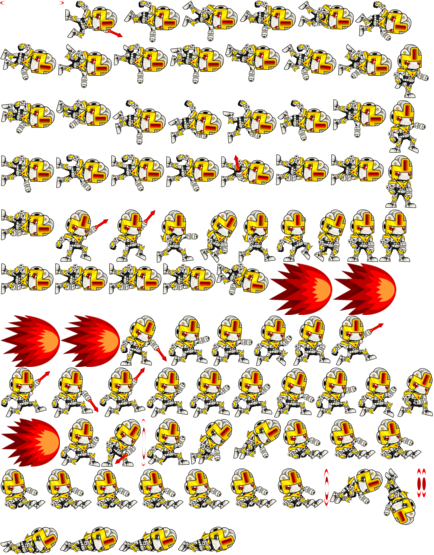
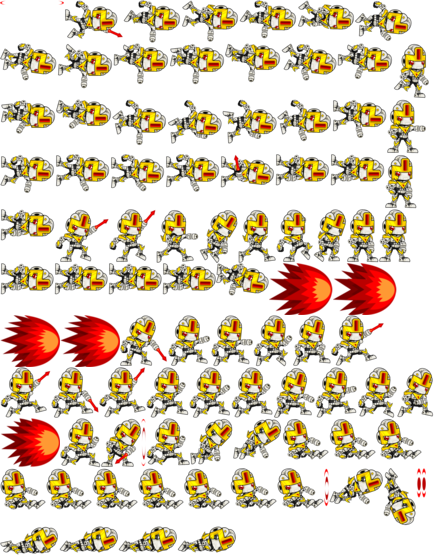
fix: detect failed writes, isolate test caches, read folders in natural order
Failed writes:
- spratpack, spratconvert and spratunpack now check that each file was
  fully written. On failure they report it, remove the partial file
  (regular files only) and exit 1; before, a full disk left truncated
  output and exit code 0.
- run_main() flushes and checks stdout for all five tools.

Test cache isolation:
- Every ctest test gets its own TMPDIR, emptied before each run by the
  reset_test_cache fixture. Cached layouts are keyed by VERSION only, so
  tests could reuse layouts from an earlier build of the same version.

Folder order:
- Folder and archive inputs are sorted by natural file name. Directory
  order is filesystem-specific, so the same folder gave different
  layouts on different machines. Lists keep their own order.
- README examples regenerated with the current build; the pot example
  was 460x894 and is now 512x1024.
- regenerate-readme-assets.sh prefers ./build over leftover root binaries.

Tests: write_failure (skipped without /dev/full), folder_order.
Docs: README, man page (adds --sort stable) and --help describe folder
order; AGENTS.md describes the test cache.
Version: v0.19.3.

diff --git a/src/commands/spratconvert_command.cpp b/src/commands/spratconvert_command.cpp
@@ -35,6 +35,7 @@ namespace fs = std::filesystem;
 #include <system_error>
 #include "core/layout_parser.h"
 #include "core/cli_parse.h"
+#include "core/file_io.h"
 #include "core/i18n.h"
 #include "core/output_pattern.h"
 #include "core/fnv1a.h"
@@ -1711,13 +1712,12 @@ int run_spratconvert(int argc, char** argv) {
             int exit_code = 0;
             for (const auto& fe : result.files) {
                 const fs::path out_path = fs::path(out_dir) / fe.filename;
-                std::ofstream out_file(out_path, std::ios::binary);
-                if (!out_file) {
-                    std::cerr << tr("Failed to open output file: ") << out_path.string() << "\n";
+                std::string write_error;
+                if (!sprat::core::write_file(out_path, fe.content, write_error)) {
+                    std::cerr << tr("Failed to write output file ") << to_quoted(out_path.string())
+                              << ": " << write_error << "\n";
                     exit_code = 1;
-                    continue;
                 }
-                out_file << fe.content;
             }
             return exit_code;
         }
@@ -1732,12 +1732,12 @@ int run_spratconvert(int argc, char** argv) {
             }
             const std::string out_filename = file_stem + result.extension;
             const fs::path out_path = fs::path(out_dir) / out_filename;
-            std::ofstream out_file(out_path, std::ios::binary);
-            if (!out_file) {
-                std::cerr << tr("Failed to open output file: ") << out_path.string() << "\n";
+            std::string write_error;
+            if (!sprat::core::write_file(out_path, result.content, write_error)) {
+                std::cerr << tr("Failed to write output file ") << to_quoted(out_path.string())
+                          << ": " << write_error << "\n";
                 return 1;
             }
-            out_file << result.content;
             return 0;
         }
 

diff --git a/src/commands/spratunpack_command.cpp b/src/commands/spratunpack_command.cpp
@@ -24,6 +24,7 @@ namespace fs = std::filesystem;
 #include <thread>
 #include <iterator>
 #include "core/cli_parse.h"
+#include "core/file_io.h"
 #include "core/layout_parser.h"
 
 #ifdef _WIN32
@@ -841,11 +842,7 @@ private:
         std::cout << tr("Unpacking ") << frames_.size() << tr(" frames to ") << to_quoted(config_.output_dir.string()) << tr("...\n");
 
         return encode_and_write([&](const SpriteFrame& frame, const std::vector<unsigned char>& png) {
-            if (!save_png(frame, png)) {
-                std::cerr << tr("Error: Failed to save sprite ") << to_quoted(frame.name) << "\n";
-                return false;
-            }
-            return true;
+            return save_png(frame, png);  // reports its own error
         });
     }
 
@@ -981,9 +978,14 @@ private:
             return false;
         }
 
-        std::ofstream out(output_path, std::ios::binary);
-        out.write(reinterpret_cast<const char*>(png.data()), static_cast<std::streamsize>(png.size()));
-        return static_cast<bool>(out);
+        std::string write_error;
+        if (!sprat::core::write_file(output_path,
+                std::string_view(reinterpret_cast<const char*>(png.data()), png.size()), write_error)) {
+            std::cerr << tr("Error: Failed to write ") << to_quoted(output_path.string())
+                      << ": " << write_error << "\n";
+            return false;
+        }
+        return true;
     }
 };
 

diff --git a/src/core/file_io.h b/src/core/file_io.h
@@ -1,0 +1,35 @@
+#pragma once
+
+#include <filesystem>
+#include <fstream>
+#include <string>
+#include <string_view>
+#include <system_error>
+
+#include "core/i18n.h"
+
+namespace sprat::core {
+
+// Writes data to path, replacing the file. Fails (setting error) if the file can't be opened
+// or the data doesn't fully reach it, e.g. on a full disk; the partial file is then removed
+// (if it is a regular file) so no truncated atlas or metadata file is left behind.
+inline bool write_file(const std::filesystem::path& path, std::string_view data, std::string& error) {
+    std::ofstream out(path, std::ios::binary | std::ios::trunc);
+    if (!out) {
+        error = tr("cannot open file for writing");
+        return false;
+    }
+    out.write(data.data(), static_cast<std::streamsize>(data.size()));
+    out.close();  // flushes; a failed flush sets failbit
+    if (!out) {
+        error = tr("write failed (disk full or I/O error)");
+        std::error_code ec;
+        if (std::filesystem::is_regular_file(path, ec)) {  // never a device such as /dev/full
+            std::filesystem::remove(path, ec);
+        }
+        return false;
+    }
+    return true;
+}
+
+} // namespace sprat::core

diff --git a/src/commands/spratpack_command.cpp b/src/commands/spratpack_command.cpp
@@ -41,6 +41,7 @@
 #include <archive_entry.h>
 #include "core/layout_parser.h"
 #include "core/checked_math.h"
+#include "core/file_io.h"
 #include "core/cli_parse.h"
 #include "core/i18n.h"
 #include "core/output_pattern.h"
@@ -1314,12 +1315,14 @@ int run_spratpack(int argc, char** argv) {
                 std::cerr << tr("Invalid output pattern: ") << pattern_error << "\n";
                 return 1;
             }
-            std::ofstream out_file(filename, std::ios::binary);
-            if (!out_file) {
-                std::cerr << tr("Error: Failed to open output file: ") << filename << "\n";
+            std::string write_error;
+            if (!sprat::core::write_file(filename,
+                    std::string_view(reinterpret_cast<const char*>(output_data.data()), output_data.size()),
+                    write_error)) {
+                std::cerr << tr("Error: Failed to write output file ") << to_quoted(filename)
+                          << ": " << write_error << "\n";
                 return 1;
             }
-            out_file.write(reinterpret_cast<const char*>(output_data.data()), static_cast<std::streamsize>(output_data.size()));
         }
     }
 

diff --git a/src/commands/spratlayout_command.cpp b/src/commands/spratlayout_command.cpp
@@ -123,7 +123,8 @@ void print_usage() {
               << tr("  --dedup-tolerance N        Max per-channel pixel difference for perceptual dedup (0-255, default: 8)\n")
               << tr("  --sort name|none|stable[:<metric>]  Order of sprites in layout (default: none)\n")
               << tr("                             stable: deterministic sort by size then path; <metric> is\n")
-              << tr("                             area (default), maxside, height, width, or perimeter\n")
+              << tr("                             area (default), maxside, height, width, or perimeter;\n")
+              << tr("                             folders are always read in natural filename order\n")
               << tr("  --threads N                Number of worker threads\n")
               << tr("  --debug                    Enable detailed error reporting and debug visualization\n")
               << tr("  --stdin-list               Read image paths from stdin (one per line) instead of <folder>\n")

diff --git a/src/commands/spratlayout/input.cpp b/src/commands/spratlayout/input.cpp
@@ -3,6 +3,7 @@
 #include <archive.h>
 #include <archive_entry.h>
 
+#include <algorithm>
 #include <array>
 #include <cctype>
 #include <cerrno>
@@ -368,6 +369,13 @@ public:
                 load_ignore_file(input_.working_folder / ".spratlayoutignore", input_.working_folder);
             }
             add_folder(input_.working_folder);
+            // Directory order depends on the filesystem (ext4 hash order, NTFS, APFS, ...),
+            // so the same folder would give different layouts on different machines.
+            // Lists keep the order they were written in.
+            std::ranges::stable_sort(sources_, [](const ImageSource& a, const ImageSource& b) {
+                const int cmp = sprat::core::compare_natural(a.path, b.path);
+                return cmp != 0 ? cmp < 0 : a.path < b.path;  // "a01" vs "a1": still a fixed order
+            });
             return true;
         }
 

diff --git a/src/core/run_main.h b/src/core/run_main.h
@@ -13,7 +13,15 @@ namespace sprat::core {
 inline int run_main(int (*command)(int, char**), int argc, char** argv) {
     init_i18n("sprat-cli");
     try {
-        return command(argc, argv);
+        const int status = command(argc, argv);
+        // Layouts, atlases and metadata go to stdout; a pipe or disk that took only part of
+        // them (closed pipe, full disk) must not look like success.
+        std::cout.flush();
+        if (status == 0 && !std::cout) {
+            std::cerr << tr("Error: failed to write to standard output\n");
+            return 1;
+        }
+        return status;
     } catch (const std::exception& e) {
         std::cerr << tr("Error: ") << e.what() << "\n";
     } catch (...) {

diff --git a/README.md b/README.md
@@ -229,7 +229,7 @@ Profile definitions are searched in:
 - `--dedup-threshold N`: Max perceptual-hash distance (0-64, default `5`) for a pair to be compared in `perceptual` mode.
 - `--dedup-tolerance N`: Max per-channel pixel difference (0-255, default `8`) for `perceptual` mode to merge two sprites.
 - `--incremental`: Reuse positions of unchanged sprites from the previous run, packing only new/changed ones (single atlas only; falls back to a full repack if they don't fit). `pot` atlases keep power-of-two sides; `grid` mode ignores this option. Also available as profile key `incremental=true`.
-- `--sort name|none|stable[:metric]`: Order of sprites in layout (default: `none`).
+- `--sort name|none|stable[:metric]`: Order of sprites in layout (default: `none`). Images of a folder or archive are always read in natural filename order (`walk2` before `walk10`), so a folder gives the same layout on every filesystem; list files and `--stdin-list` keep their own order.
 - `--scale F`: Pre-scale images (0.0 to 1.0). A trimmed sprite's packed size is chosen so that its original size scales to exactly `round(width × F)` × `round(height × F)`, so animation frames of one size keep one size at any scale.
 - `--threads N`: Parallelize the packing search.
 - `--debug`: Enable detailed error reporting and debug visualization.

diff --git a/AGENTS.md b/AGENTS.md
@@ -72,6 +72,9 @@ ctest --test-dir build --output-on-failure
 ```
 
 - Without `-DBUILD_TESTING=ON`, `ctest` finds no tests.
+- Each test gets its own layout cache (`TMPDIR`), emptied before every `ctest` run by the
+  `reset_test_cache` fixture; cached layouts are keyed by `VERSION` only, so outside the
+  tests point `TMPDIR` at a fresh folder when checking a layout change by hand.
 - Add or update tests for every behavior change or bug fix.
 - If output intentionally changes, regenerate baselines with
   `scripts/update_asset_baselines.sh` and review `git diff tests/baselines`.
